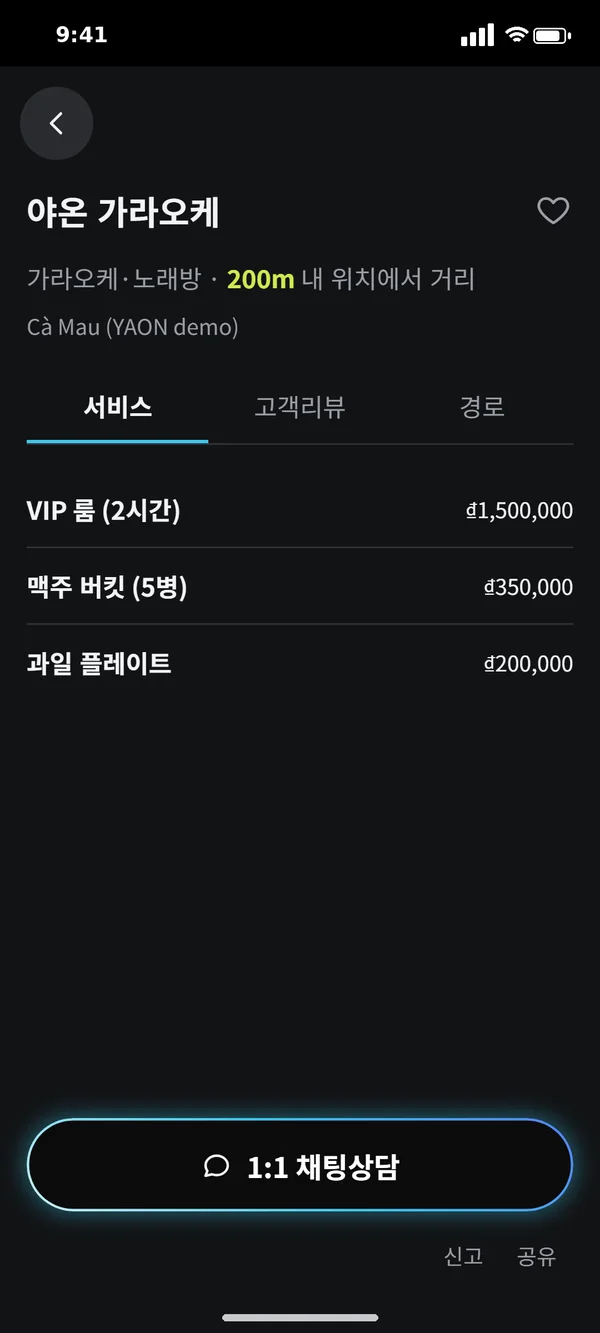
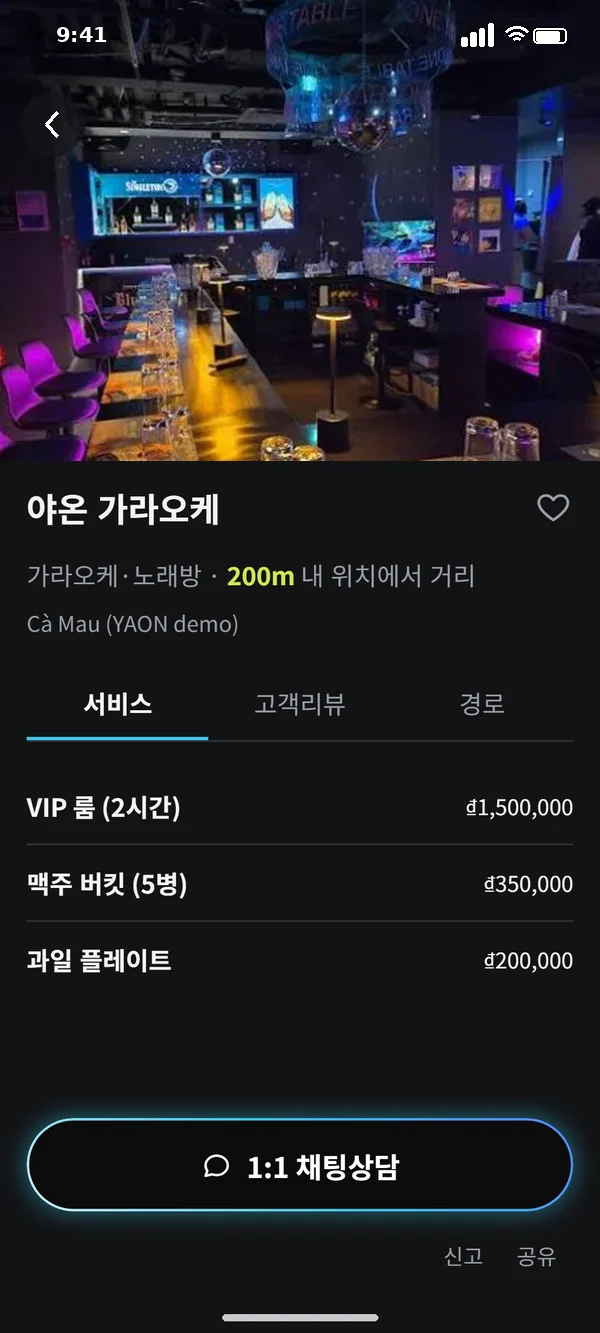
Add files via upload

diff --git a/index.html b/index.html
@@ -7,11 +7,11 @@
 <meta name="description" content="해외에서 한국어 한마디로 근처 바·클럽·가라오케·마사지·맛집을 찾고, 1:1 자동 번역 상담·배달·예약까지. 11개국 여행정보, 8개 언어 지원.">
 <meta property="og:title" content="YAON 夜 — 오늘 밤, 뭐가 당기세요?">
 <meta property="og:description" content="해외에서 한국어 한마디로 찾는 밤문화·맛집·배달·예약">
-<meta property="og:image" content="https://yaon-app.com/img/icon.png">
+<meta property="og:image" content="https://yaon-app.com/img/icon.png?v=1795640623">
 <meta property="og:url" content="https://yaon-app.com/">
 <meta name="theme-color" content="#08080b">
-<link rel="icon" href="img/favicon.png">
-<link rel="apple-touch-icon" href="img/icon.png">
+<link rel="icon" href="img/favicon.png?v=1795640623">
+<link rel="apple-touch-icon" href="img/icon.png?v=1795640623">
 <link rel="stylesheet" href="https://cdn.jsdelivr.net/gh/orioncactus/pretendard@v1.3.9/dist/web/static/pretendard.min.css">
 <link rel="preconnect" href="https://fonts.googleapis.com"><link rel="preconnect" href="https://fonts.gstatic.com" crossorigin>
 <link rel="stylesheet" href="https://fonts.googleapis.com/css2?family=Ma+Shan+Zheng&text=%E5%A4%9C&display=swap">
@@ -317,7 +317,7 @@ footer nav a:hover{color:var(--text)}
       </div>
     </div>
     <div class="hero-phone rv d2">
-      <div class="phone"><div class="scr"><span class="hashring ring-anim" style="left:59.95%;top:8.78%;width:13.3%"></span><img src="img/intro.webp" alt="YAON 시작 화면 — 오늘 밤, 뭐가 당기세요?"></div></div>
+      <div class="phone"><div class="scr"><span class="hashring ring-anim" style="left:59.95%;top:8.78%;width:13.3%"></span><img src="img/intro.webp?v=1795640623" alt="YAON 시작 화면 — 오늘 밤, 뭐가 당기세요?"></div></div>
       <div class="chip c1 ring-anim"><span class="dot"></span>근처 3km · 영업 중 12곳</div>
       <div class="chip c2 ring-anim">💬 "근처 가라오케"</div>
     </div>
@@ -377,18 +377,18 @@ footer nav a:hover{color:var(--text)}
   </div>
   <div class="wrap how">
     <div class="sticky"><div class="phone"><div class="scr" id="hscr"><span class="hashring ring-anim" id="hring" style="left:61.85%;top:9.8%;width:12.95%"></span>
-      <img src="img/chat.webp" alt="" data-k="0">
-      <img src="img/biz.webp" alt="" data-k="1" class="hide">
-      <img src="img/consult.webp" alt="" data-k="2" class="hide">
-      <img src="img/reserve.webp" alt="" data-k="3" class="hide">
-      <img src="img/reward.webp" alt="" data-k="4" class="hide">
+      <img src="img/chat.webp?v=1795640623" alt="" data-k="0">
+      <img src="img/biz.webp?v=1795640623" alt="" data-k="1" class="hide">
+      <img src="img/consult.webp?v=1795640623" alt="" data-k="2" class="hide">
+      <img src="img/reserve.webp?v=1795640623" alt="" data-k="3" class="hide">
+      <img src="img/reward.webp?v=1795640623" alt="" data-k="4" class="hide">
     </div></div></div>
     <div class="steps">
-      <div class="step" data-k="0"><span class="n">STEP 01</span><h3>위치를 공유하고<br>말로 물어보세요</h3><p>앱을 열고 위치 공유를 허용한 뒤, 찾고 싶은 걸 그냥 말하세요. 업종·메뉴·업체 이름 모두 알아들어요.</p><span class="say">근처 가라오케</span><img class="mimg" src="img/chat.webp" alt="대화로 찾기 화면"></div>
-      <div class="step" data-k="1"><span class="n">STEP 02</span><h3>업체 카드에서<br>한눈에 확인</h3><p>영업 중 여부, 거리, 서비스·메뉴 가격, 고객 리뷰, 길찾기까지. 마음에 들면 바로 상담이나 예약으로.</p><img class="mimg" src="img/biz.webp" alt="업체 카드 화면"></div>
-      <div class="step" data-k="2"><span class="n">STEP 03</span><h3>한국어로 상담하면<br>자동으로 번역</h3><p>[1:1 채팅상담]에서 한국어로 묻기만 하면 돼요. 답이 늦으면 비슷한 근처 업체를 바로 추천해요.</p><img class="mimg" src="img/consult.webp" alt="1:1 상담 화면"></div>
-      <div class="step" data-k="3"><span class="n">STEP 04</span><h3>예약·배달은<br>카드 한 장으로</h3><p>"아로마 마사지, 내일 20시, 1명"처럼 말하면 예약 카드가 만들어지고, 시간만 고르면 가격까지 계산돼요.</p><img class="mimg" src="img/reserve.webp" alt="예약 카드 화면"></div>
-      <div class="step" data-k="4"><span class="n">STEP 05</span><h3>방문하면<br>혜택이 쌓여요</h3><p>MY의 QR을 업체에 보여 주세요. 방문 기록이 쌓이고 단골 혜택·쿠폰을 받을 수 있어요.</p><img class="mimg" src="img/reward.webp" alt="방문 적립 화면"></div>
+      <div class="step" data-k="0"><span class="n">STEP 01</span><h3>위치를 공유하고<br>말로 물어보세요</h3><p>앱을 열고 위치 공유를 허용한 뒤, 찾고 싶은 걸 그냥 말하세요. 업종·메뉴·업체 이름 모두 알아들어요.</p><span class="say">근처 가라오케</span><img class="mimg" src="img/chat.webp?v=1795640623" alt="대화로 찾기 화면"></div>
+      <div class="step" data-k="1"><span class="n">STEP 02</span><h3>업체 카드에서<br>한눈에 확인</h3><p>영업 중 여부, 거리, 서비스·메뉴 가격, 고객 리뷰, 길찾기까지. 마음에 들면 바로 상담이나 예약으로.</p><img class="mimg" src="img/biz.webp?v=1795640623" alt="업체 카드 화면"></div>
+      <div class="step" data-k="2"><span class="n">STEP 03</span><h3>한국어로 상담하면<br>자동으로 번역</h3><p>[1:1 채팅상담]에서 한국어로 묻기만 하면 돼요. 답이 늦으면 비슷한 근처 업체를 바로 추천해요.</p><img class="mimg" src="img/consult.webp?v=1795640623" alt="1:1 상담 화면"></div>
+      <div class="step" data-k="3"><span class="n">STEP 04</span><h3>예약·배달은<br>카드 한 장으로</h3><p>"아로마 마사지, 내일 20시, 1명"처럼 말하면 예약 카드가 만들어지고, 시간만 고르면 가격까지 계산돼요.</p><img class="mimg" src="img/reserve.webp?v=1795640623" alt="예약 카드 화면"></div>
+      <div class="step" data-k="4"><span class="n">STEP 05</span><h3>방문하면<br>혜택이 쌓여요</h3><p>MY의 QR을 업체에 보여 주세요. 방문 기록이 쌓이고 단골 혜택·쿠폰을 받을 수 있어요.</p><img class="mimg" src="img/reward.webp?v=1795640623" alt="방문 적립 화면"></div>
     </div>
   </div>
 </section>
@@ -405,10 +405,10 @@ footer nav a:hover{color:var(--text)}
         <p class="glab l"><span class="tri">◀</span><span><b>고객서비스</b><br>앱 이용가이드</span></p>
         <div class="catw" aria-hidden="true">
           <div class="cat3d">
-            <img class="cb" src="img/cat_body.webp" alt="">
-            <img class="cbl" src="img/cat_blink.webp" alt="">
+            <img class="cb" src="img/cat_body.webp?v=1795640623" alt="">
+            <img class="cbl" src="img/cat_blink.webp?v=1795640623" alt="">
             <img src="img/cat_footL.webp" alt=""><img src="img/cat_footR.webp" alt="">
-            <img class="ch" src="img/cat_hand.webp" alt="">
+            <img class="ch" src="img/cat_hand.webp?v=1795640623" alt="">
           </div>
           <div class="shadow"></div>
         </div>
@@ -422,7 +422,7 @@ footer nav a:hover{color:var(--text)}
 <!-- 6. OWNER -->
 <section id="owner">
   <div class="wrap owner">
-    <div class="rv"><div class="phone ophone" style="margin:auto"><div class="scr"><img src="img/owner.webp" alt="업체 관리 화면"></div></div></div>
+    <div class="rv"><div class="phone ophone" style="margin:auto"><div class="scr"><img src="img/owner.webp?v=1795640623" alt="업체 관리 화면"></div></div></div>
     <div>
       <span class="eyebrow rv">For Owners</span>
       <h2 class="title rv d1 one">업체는 명함, 메뉴판 한 장이면 OK</h2>
@@ -557,8 +557,8 @@ var S=[
 var tabs=document.getElementById('tabs'),scr=document.getElementById('sscr'),info=document.getElementById('sinfo'),th={children:[],appendChild:function(){}},cur=0,timer,DUR=5000;
 S.forEach(function(s,i){
   var b=document.createElement('button');b.textContent=s.t;b.setAttribute('role','tab');b.onclick=function(){go(i,true)};tabs.appendChild(b);
-  var im=document.createElement('img');im.src='img/'+s.img+'.webp';im.alt=s.h;im.loading=i?'lazy':'eager';if(i)im.className='hide';scr.appendChild(im);
-  if(i<5){var t=document.createElement('img');t.src='img/'+s.img+'.webp';t.alt='';t.loading='lazy';t.onclick=function(){go(i,true)};th.appendChild(t)}
+  var im=document.createElement('img');im.src='img/'+s.img+'.webp?v=1795640623';im.alt=s.h;im.loading=i?'lazy':'eager';if(i)im.className='hide';scr.appendChild(im);
+  if(i<5){var t=document.createElement('img');t.src='img/'+s.img+'.webp?v=1795640623';t.alt='';t.loading='lazy';t.onclick=function(){go(i,true)};th.appendChild(t)}
 });
 function go(i,user){
   cur=(i+S.length)%S.length;var s=S[cur];
@@ -589,7 +589,7 @@ var V={
  c:{h:'고객 이용가이드',p:'말로 찾기 · 1:1 번역 상담 · 배달 · 예약',img:'chat',src:''},
  o:{h:'업주 이용가이드',p:'업체 등록 · 지금 상태 · 근처 요청 · 예약·배달 관리',img:'owner',src:''}
 };
-function vshort(v){return '<div class="vshort rv on" role="button" tabindex="0"><div class="pv">'+(v.src?'<video src="'+v.src+'" controls playsinline preload="none" poster="img/'+v.img+'.webp"></video>':'<img src="img/'+v.img+'.webp" alt="" loading="lazy"><span class="soon">영상 준비 중</span><div class="play"><span>▶</span></div><div class="cap"><h4>'+v.h+'</h4><p>'+v.p+'</p></div>')+'</div></div>'}
+function vshort(v){return '<div class="vshort rv on" role="button" tabindex="0"><div class="pv">'+(v.src?'<video src="'+v.src+'" controls playsinline preload="none" poster="img/'+v.img+'.webp?v=1795640623"></video>':'<img src="img/'+v.img+'.webp?v=1795640623" alt="" loading="lazy"><span class="soon">영상 준비 중</span><div class="play"><span>▶</span></div><div class="cap"><h4>'+v.h+'</h4><p>'+v.p+'</p></div>')+'</div></div>'}
 document.getElementById('gl-c').innerHTML=vshort(V.c);
 document.getElementById('gl-o').innerHTML=vshort(V.o);
 
